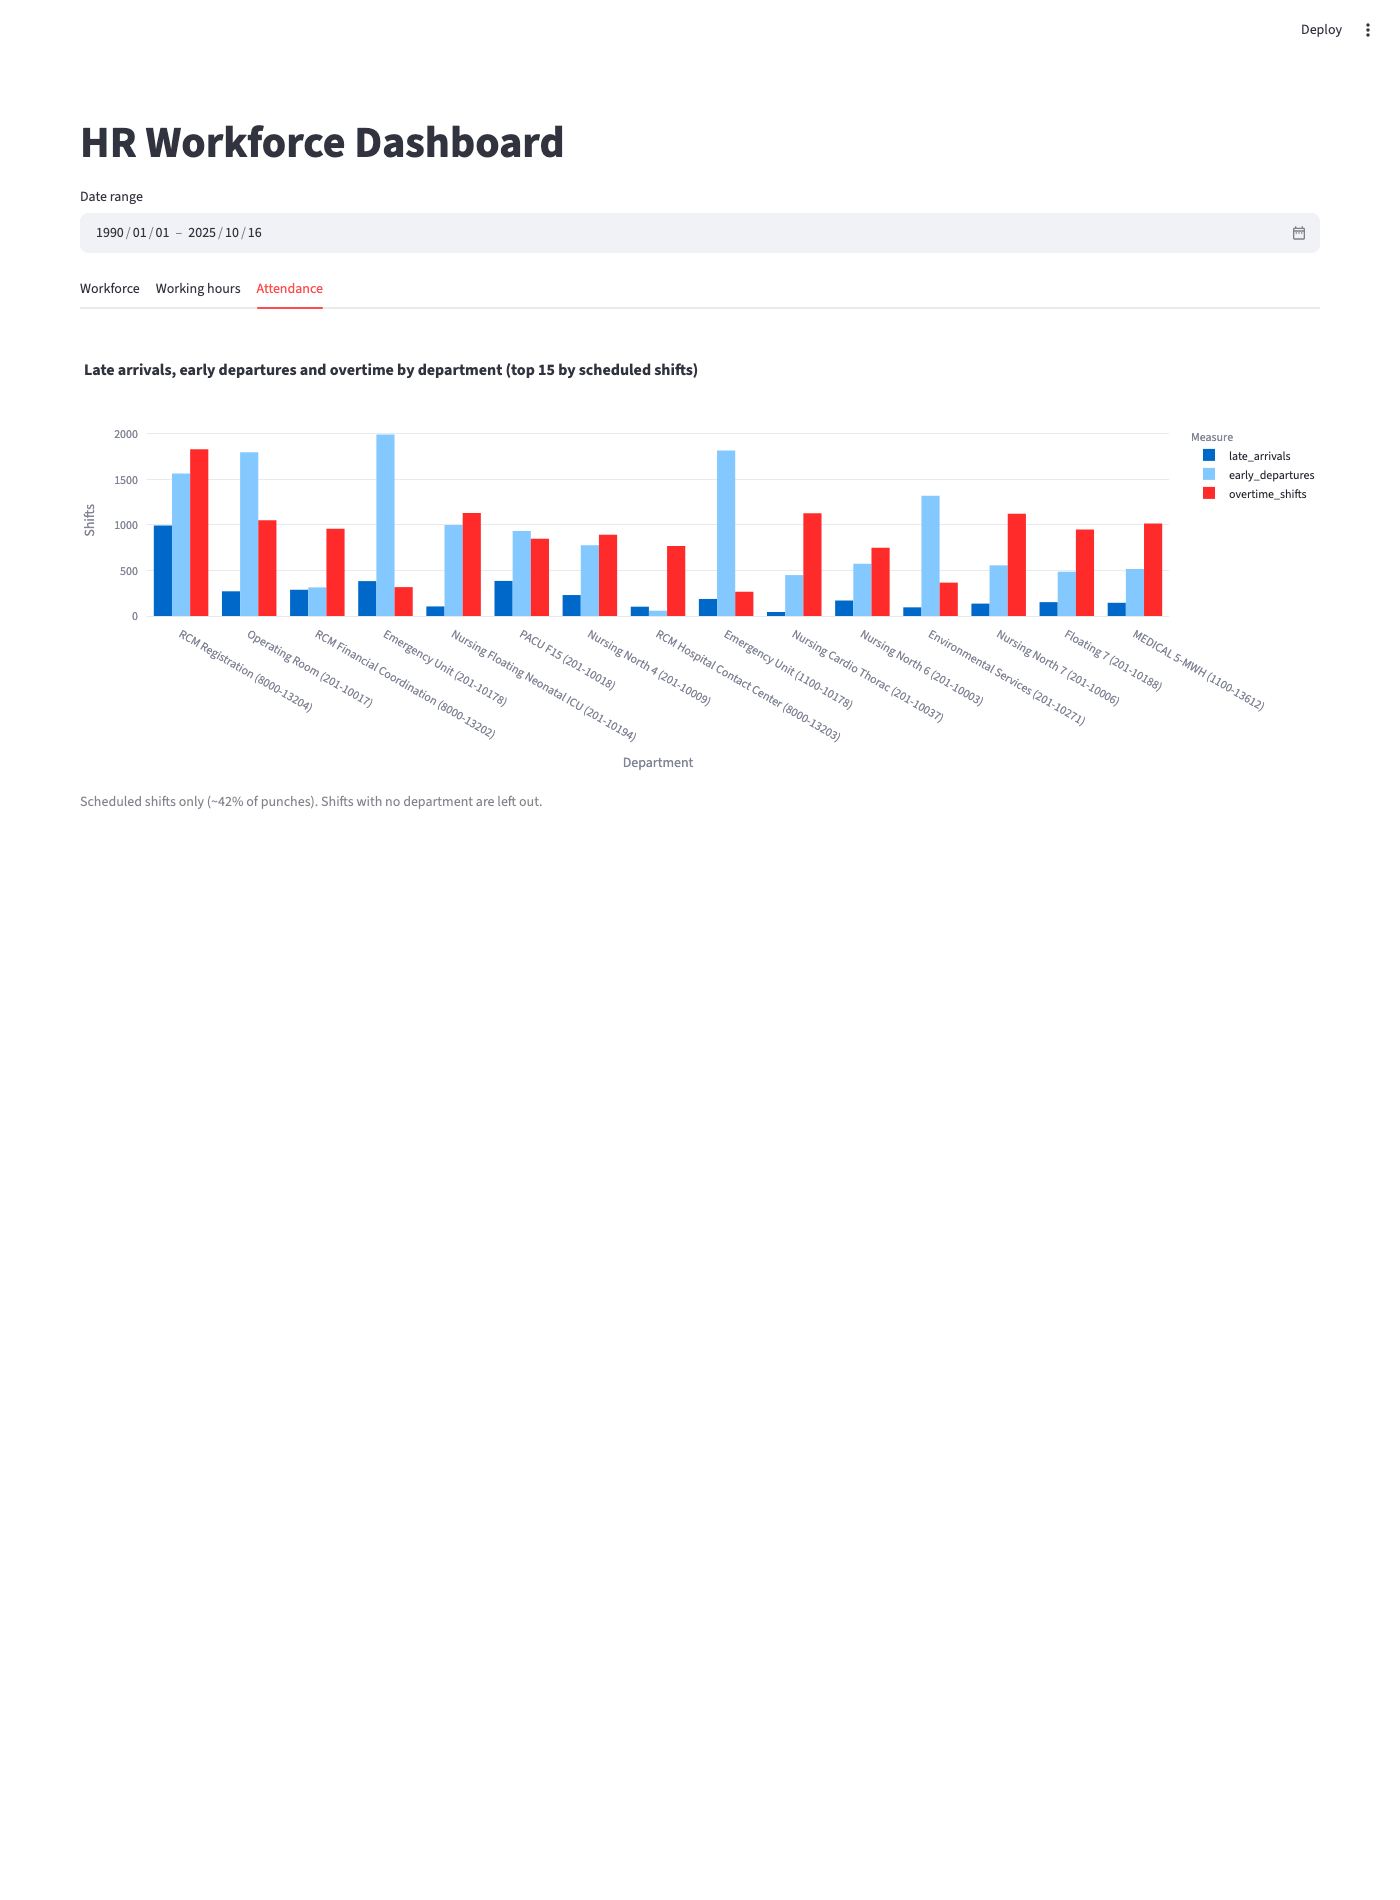
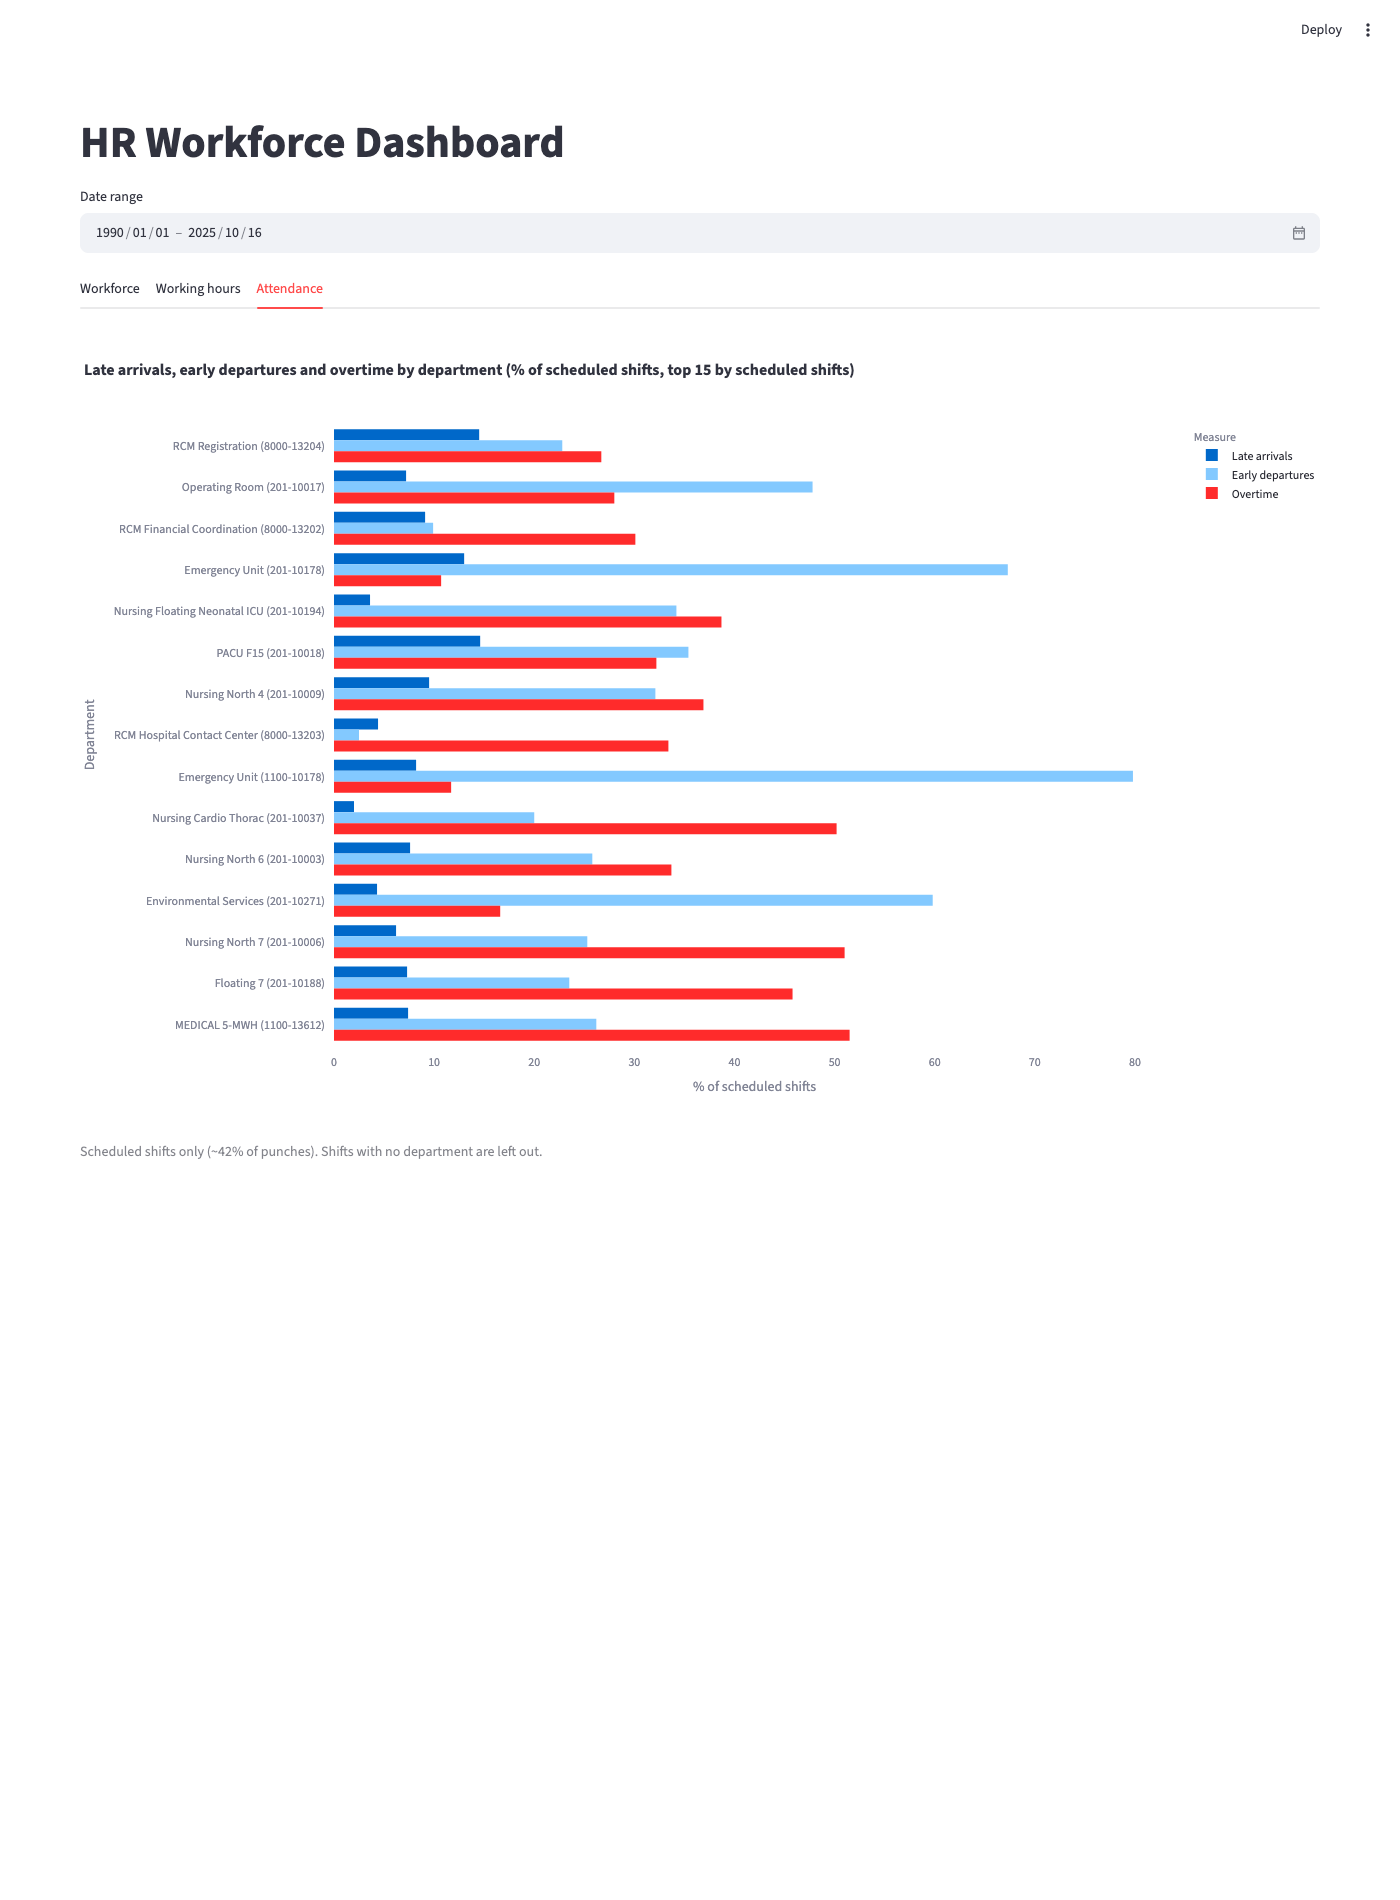
Show attendance by department as rates of scheduled shifts in horizontal bars

Changed region(s): [[0.0614, 0.1863, 0.8293, 0.5589], [0.86, 0.2174, 0.9214, 0.2795], [0.0614, 0.3726, 0.0921, 0.4037]]

diff --git a/dashboard/app.py b/dashboard/app.py
@@ -75,13 +75,19 @@ with hours_tab:
                "Punches with no department are left out of the bar chart.")
 
 with attendance_tab:
+    top = attendance.nlargest(15, "scheduled_shifts")
+    # Rates, so busy and quiet departments compare fairly
+    for name, col in [("Late arrivals", "late_arrivals"),
+                      ("Early departures", "early_departures"),
+                      ("Overtime", "overtime_shifts")]:
+        top[name] = (top[col] / top["scheduled_shifts"] * 100).round(1)
     st.plotly_chart(px.bar(
-        attendance.nlargest(15, "scheduled_shifts"), x="department",
-        y=["late_arrivals", "early_departures", "overtime_shifts"],
-        barmode="group",
+        top, x=["Late arrivals", "Early departures", "Overtime"], y="department",
+        orientation="h", barmode="group", height=800,
         title="Late arrivals, early departures and overtime by department "
-              "(top 15 by scheduled shifts)",
-        labels={"department": "Department", "value": "Shifts", "variable": "Measure"},
-    ))
+              "(% of scheduled shifts, top 15 by scheduled shifts)",
+        labels={"department": "Department", "value": "% of scheduled shifts",
+                "variable": "Measure"},
+    ).update_yaxes(autorange="reversed"))
     st.caption("Scheduled shifts only (~42% of punches). "
                "Shifts with no department are left out.")
